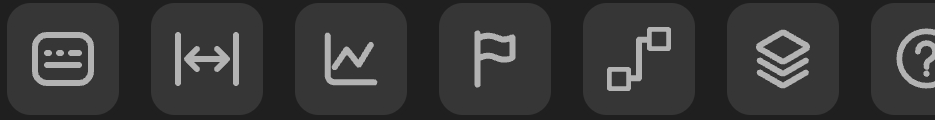
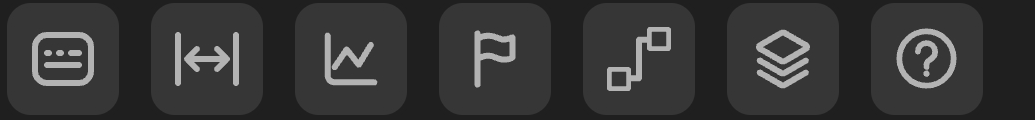
Fix context menu, multi-select, and toolbar action crops.
Include Pin row on the context menu, split multi-select into timeline selection plus info panel, and extend actions so the help button is fully in frame.

diff --git a/docs/ui/DESIGN_INDEX.md b/docs/ui/DESIGN_INDEX.md
@@ -55,5 +55,5 @@ Cross-layer map: **sources (v930) → component visual packs**. Pixel measures l
 | [`DetailRelevant`](../../src/ui/DetailPanel/DetailRelevant/visual/) | Relevant graph | `v930/detail-strip-raised` |
 | [`EventTooltip`](../../src/ui/EventTooltip/visual/) | hover tooltip | `v930/task-hover` |
 | [`ContextMenu`](../../src/ui/ContextMenu/visual/) | task context menu | `v930/task-context-menu` |
-| [`MultiSelectSummary`](../../src/ui/MultiSelectSummary/visual/) | multi-select aggregate table | `v930/task-marquee` |
+| [`MultiSelectSummary`](../../src/ui/MultiSelectSummary/visual/) | selection, info panel | `v930/task-marquee` |
 | ProfilingReport / ReportLayout / TimelineView / SwimlaneView / TimeAxis | (shells — no visual pack) | — |
